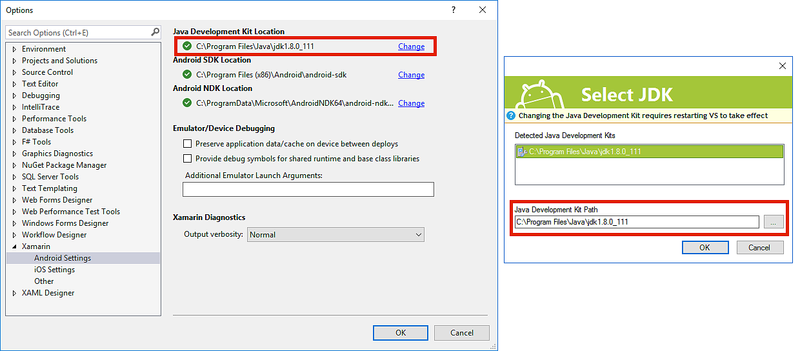
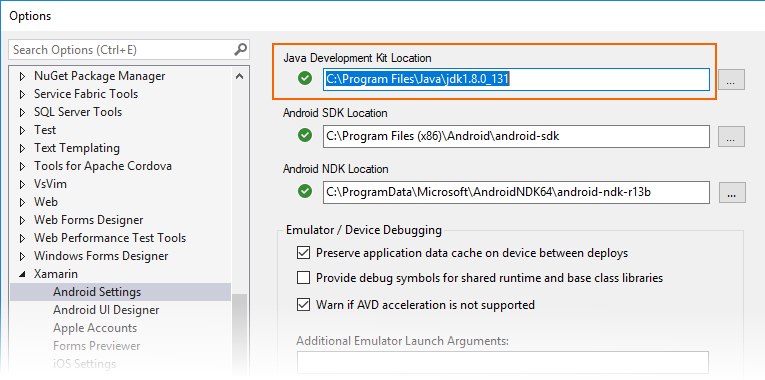
Update JDK version topic (#637)
* Fix mac navigation to JDK location

* Update screenshots

* Update windows navigation

* Better screenshot descriptions

diff --git a/docs/android/troubleshooting/questions/update-jdk.md b/docs/android/troubleshooting/questions/update-jdk.md
@@ -7,7 +7,7 @@ ms.assetid: 4b3ac51d-18dd-4034-87b4-4365194e4ece
 ms.technology: xamarin-android
 author: mgmclemore
 ms.author: mamcle
-ms.date: 08/29/2018
+ms.date: 09/07/2018
 ---
 
 # How do I update the Java Development Kit (JDK) version?
@@ -46,9 +46,9 @@ To update to JDK 8, follow these steps:
 
 4.  Open Visual Studio and update the **Java Development Kit Location**
     to point to the new JDK under **Tools > Options > Xamarin > Android
-    Settings > Java Development Kit Location > Change**:
+    Settings > Java Development Kit Location**:
 
-    [![Path setting for the JDK in IDE Options Android Setting page](update-jdk-images/image4-sml.png)](update-jdk-images/image4.png#lightbox)
+    [![Path setting for the JDK in the Android Settings page](update-jdk-images/image4-sml.png)](update-jdk-images/image4.png#lightbox)
 
 Be sure to restart Visual Studio after updating the location.
 
@@ -66,9 +66,9 @@ Mac OS will automatically set the new JDK version as the default by
 updating **/System/Library/Frameworks/JavaVM.framework/Versions/Current**. 
 You can then double-check that the **Java SDK (JDK)** location is set to
 the expected default of **/usr** under **Visual Studio for Mac > Preferences >
-Projects > SDK Locations > Android > Java SDK (JDK) > Location**:
+Projects > SDK Locations > Android > Locations > Java SDK (JDK) Location**:
 
-![Setting the JDK location in the Android SDK Location page](update-jdk-images/image6.png)
+[![Setting the JDK location in the Android Locations tab](update-jdk-images/image6-sml.png)](update-jdk-images/image6.png#lightbox)
 
 -----
 
